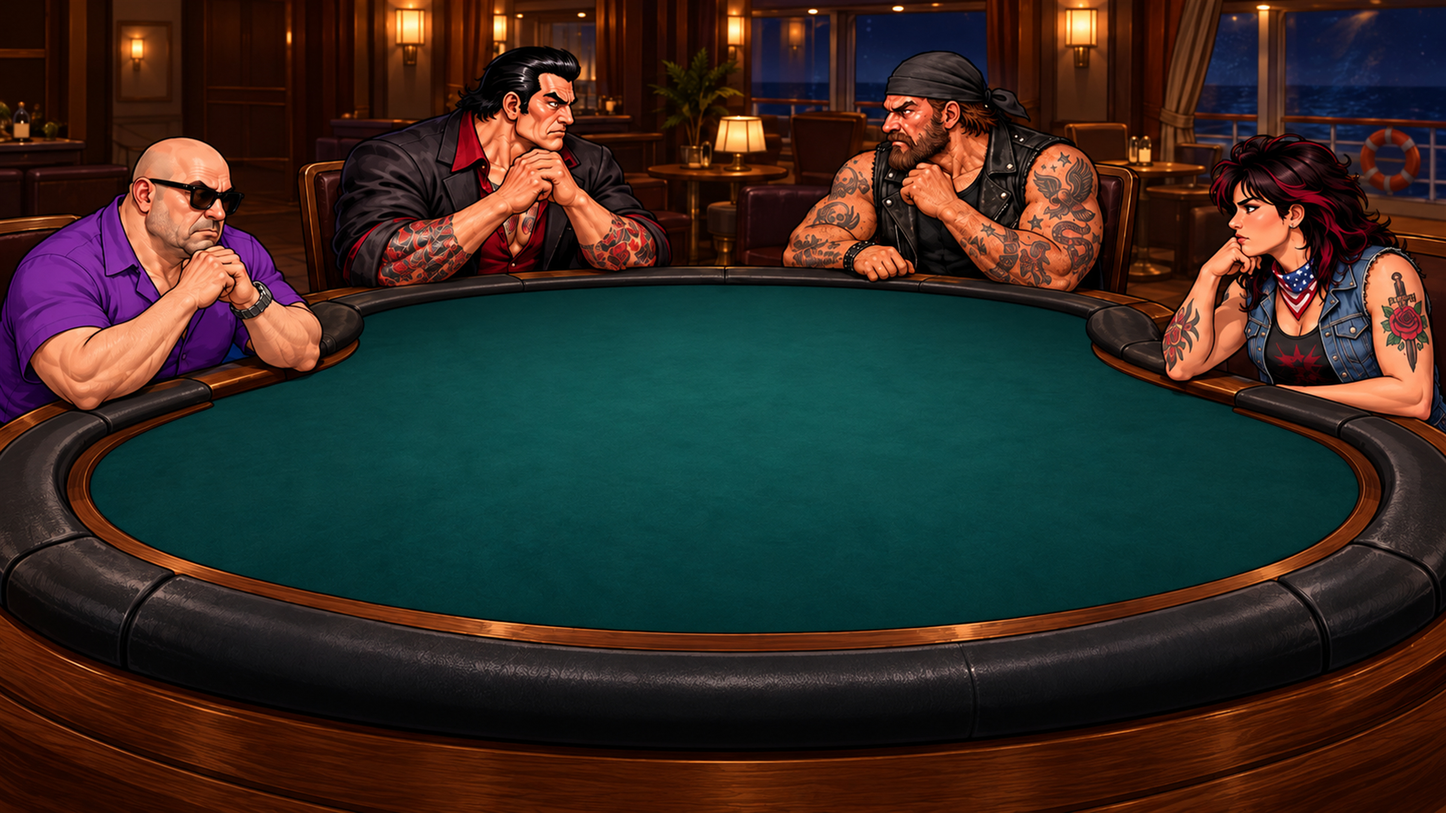
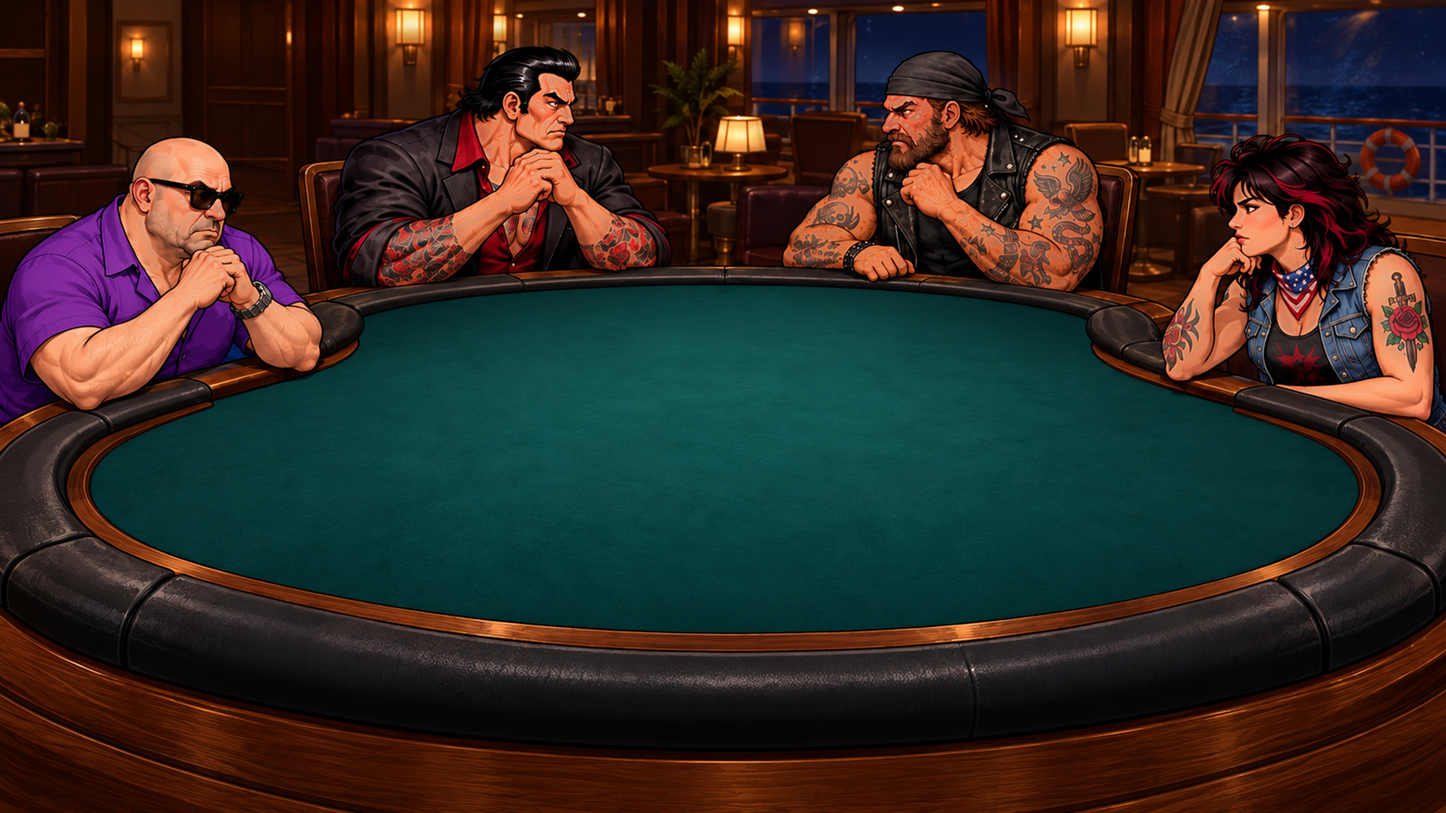
Vähennä ihon kiiltoa pöytäkuvassa (vahanukkelook)

diff --git a/Tools/PokerAssets/matte_skin.py b/Tools/PokerAssets/matte_skin.py
@@ -1,0 +1,40 @@
+"""Vähentää ihon kiiltoa (vahanukkelook) pöytäkuvassa. Lukee alkuperäisen, kirjoittaa Resources-kuvan.
+Käyttö: python Tools/PokerAssets/matte_skin.py [strength 0..1]"""
+import sys, numpy as np, cv2
+SRC = 'Tools/PokerAssets/src/TableScene-original.jpg'
+DST = 'Assets/Resources/Poker/Artwork/TableScene.jpg'
+strength = float(sys.argv[1]) if len(sys.argv) > 1 else .8
+img = cv2.imread(SRC).astype(np.float32) / 255
+H, W = img.shape[:2]; k = W / 2000.0   # laatikot annettu 2000 px leveässä esikatselussa
+# Hahmojen ihoalueet (x0,y0,x1,y1) 2000 px esikatselussa: päät, kaulat, käsivarret/rinnat
+boxes = [(150, 180, 460, 480), (440, 50, 960, 420), (1060, 70, 1560, 420), (1620, 180, 1990, 560)]
+box = np.zeros((H, W), np.float32)
+for x0, y0, x1, y1 in boxes: box[int(y0*k):int(y1*k), int(x0*k):int(x1*k)] = 1
+box = cv2.GaussianBlur(box, (0, 0), 14 * k)
+bgr = (img * 255).astype(np.uint8)
+hsv = cv2.cvtColor(bgr, cv2.COLOR_BGR2HSV).astype(np.float32)
+h, s, v = hsv[..., 0] * 2, hsv[..., 1] / 255, hsv[..., 2] / 255
+# Ihosävy: lämmin (punainen-oranssi-keltainen), kohtalainen kylläisyys; mukaan myös kiiltävä lähes valkoinen kohta
+warm = ((h < 50) | (h > 345)).astype(np.float32)
+skin = warm * np.clip((s - .12) / .12, 0, 1) * np.clip((v - .25) / .15, 0, 1)
+skin = cv2.GaussianBlur(skin, (0, 0), 2 * k)
+skin = cv2.dilate(skin, np.ones((int(5 * k) | 1,) * 2)) * 0 + skin  # (säilytetään pehmeänä)
+# kiiltokohdat sisältävät alueen: sulje reiät (kiilto on vaalea, matalakylläinen) ihon sisällä
+region = cv2.GaussianBlur(cv2.morphologyEx(skin, cv2.MORPH_CLOSE, np.ones((int(31 * k) | 1,) * 2)), (0, 0), 6 * k)
+mask = np.clip(region * 1.3, 0, 1) * box
+# Paikallinen perustaso (ilman kiiltoa): iso blur ihoalueen painotuksella
+w3 = np.repeat((skin * box)[..., None], 3, 2)
+num = cv2.GaussianBlur(img * w3, (0, 0), 22 * k); den = cv2.GaussianBlur(w3[..., 0], (0, 0), 22 * k)[..., None] + 1e-4
+base = num / den
+L = img.mean(2, keepdims=True); Lb = base.mean(2, keepdims=True)
+spec = np.clip((L - Lb - .05) / .16, 0, 1)          # kuinka paljon pikseli on kiiltävämpi kuin ympäristö
+spec = cv2.GaussianBlur(spec, (0, 0), 1.2 * k)[..., None]
+m = (mask[..., None] * spec * strength)
+# Korvaa kiilto perusihosävyllä, mutta säilytä osa hienosta yksityiskohdasta
+detail = img - cv2.GaussianBlur(img, (0, 0), 3 * k)
+target = base * (L / (L + 1e-4)) * 0 + base + detail * .5
+out = img * (1 - m) + target * m
+# Pieni yleinen kontrastin pehmennys ihossa (pois vahamaisuus): hieman kylläisyyttä lisää tummennetuille kohdille
+cv2.imwrite(DST, np.clip(out * 255, 0, 255).astype(np.uint8), [cv2.IMWRITE_JPEG_QUALITY, 95])
+cv2.imwrite('Tools/PokerAssets/src/matte-mask-preview.png', (mask * 255).astype(np.uint8))
+print('ok', W, H)
